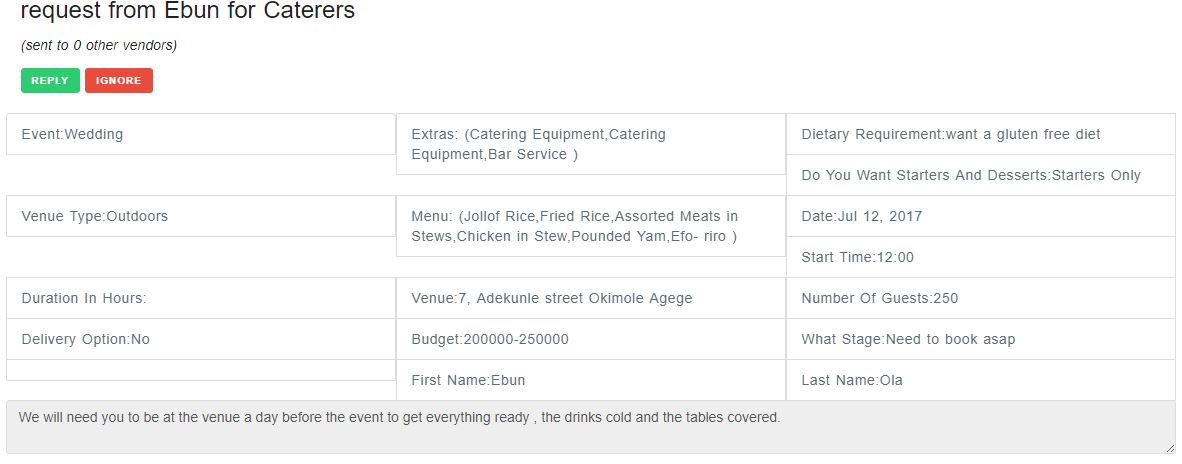
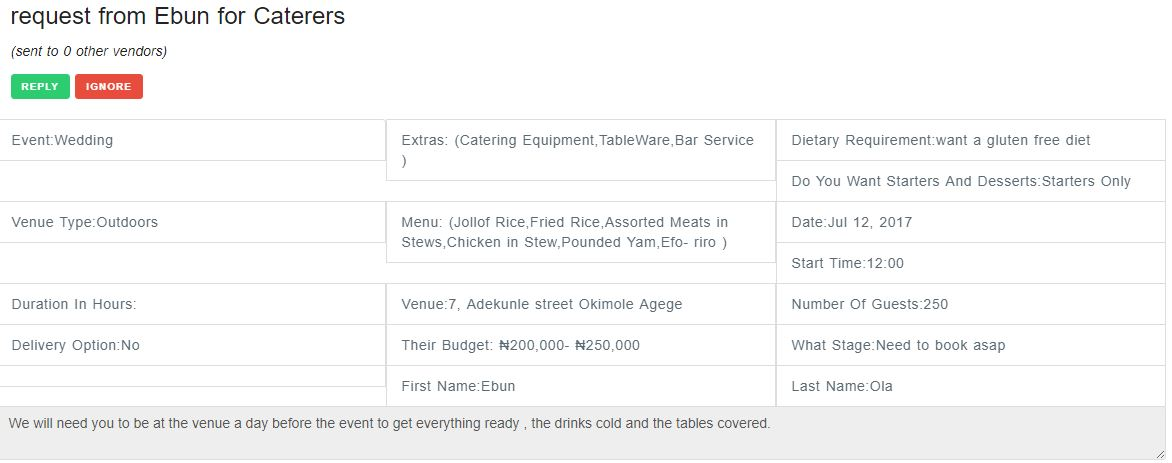
sample_request

diff --git a/resources/views/app_view/requestForm/requestform.blade.php b/resources/views/app_view/requestForm/requestform.blade.php
@@ -68,7 +68,7 @@
 
                         <label class="control-label" for="inputCity">Start Time <small style="color:red">*</small></label>
                             <div class="controls">
-                                <input type="time"id="start_time" required name="estimated_time" class="form-control input-lg"/>
+                                <input type="time"id="start_time" required name="start_time" class="form-control input-lg"/>
                             </div>
                         <label class="control-label" for="inputCity">Duration in hours</label>
                             <div class="controls">
@@ -140,7 +140,7 @@
 
                         <p>
                             <label for="amount">Price range:</label>
-                            <input type="text" name ="price_range" id="amount" readonly style="border:0; color:#f6931f; font-weight:bold;">
+                            <input type="text" name ="their_budget" id="amount" readonly style="border:0; color:#f6931f; font-weight:bold;">
                         </p>
                         <div id="slider-range"></div>
 

diff --git a/resources/views/app_view/shared/showfewrequests.blade.php b/resources/views/app_view/shared/showfewrequests.blade.php
@@ -71,7 +71,7 @@ if(count($all_requests) > 0){
                             }elseif($key == 'date' && $value !== ''){
                                 $dt = \Carbon\Carbon::parse($value);
                                 echo 'Date:'.$dt->toFormattedDateString();
-                            } elseif($key == 'price_range') {
+                            } elseif($key == 'price_range' || $key == 'their_budget') {
                                         
                                         list($lower, $higher) = explode('-',$value);
                                         echo str_replace('_',' ',title_case($key)).': &#8358;'.
